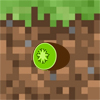
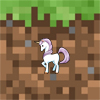
unicorn update

Changed region(s): [[0.3, 0.36, 0.72, 0.75]]

diff --git a/src/nz/ac/aut/ense701/gui/GridSquarePanel.java b/src/nz/ac/aut/ense701/gui/GridSquarePanel.java
@@ -66,7 +66,7 @@ public class GridSquarePanel extends javax.swing.JPanel
             setVisible(true);
             // Set the colour. 
             
-            //Kiwifruit
+            //Unicorn
             if( row == 6 && column == 2) {
                 image = new ImageIcon(getClass().getResource("/nz/ac/aut/ense701/image/brick2.jpg"));
             }
@@ -88,23 +88,33 @@ public class GridSquarePanel extends javax.swing.JPanel
                 lblText.setIcon(image);
             }
             //Food
-            if(game.getOccupantStringRepresentation(row, column) == "apple" ) {
+
+            if( row == 6 && column == 7) {
                 image = new ImageIcon(getClass().getResource("/nz/ac/aut/ense701/image/scruba.jpg"));
+                if(game.getOccupantStringRepresentation(row, column) == "") {
+                    image = new ImageIcon(getClass().getResource("/nz/ac/aut/ense701/image/scrub.jpg"));
+                }
             }
-            //if( row == 6 && column == 7) {
-            //    image = new ImageIcon(getClass().getResource("/nz/ac/aut/ense701/image/scruba.jpg"));
-            //}
             
             if( row == 5 && column == 4) {
                 image = new ImageIcon(getClass().getResource("/nz/ac/aut/ense701/image/grassm.jpg"));
+                if(game.getOccupantStringRepresentation(row, column) == "") {
+                    image = new ImageIcon(getClass().getResource("/nz/ac/aut/ense701/image/grass.jpg"));
+                }
             }
             
             if( row == 2 && column == 4) {
                 image = new ImageIcon(getClass().getResource("/nz/ac/aut/ense701/image/scrubs.jpg"));
+                if(game.getOccupantStringRepresentation(row, column) == "") {
+                    image = new ImageIcon(getClass().getResource("/nz/ac/aut/ense701/image/scrub.jpg"));
+                }
             }
             
             if( row == 8 && column == 2) {
                 image = new ImageIcon(getClass().getResource("/nz/ac/aut/ense701/image/grasso.jpg"));
+                if(game.getOccupantStringRepresentation(row, column) == "") {
+                    image = new ImageIcon(getClass().getResource("/nz/ac/aut/ense701/image/grass.jpg"));
+                }
             }
             //Predator
             if( row == 2 && column == 6) {

diff --git a/src/nz/ac/aut/ense701/gui/KiwiCountUI.java b/src/nz/ac/aut/ense701/gui/KiwiCountUI.java
@@ -313,7 +313,7 @@ public class KiwiCountUI
         gridBagConstraints.anchor = java.awt.GridBagConstraints.WEST;
         pnlPlayerData.add(lblPredators, gridBagConstraints);
 
-        lblKiwisCounted.setText("Kiwis Counted :");
+        lblKiwisCounted.setText("Unicorn Counted :");
         gridBagConstraints = new java.awt.GridBagConstraints();
         gridBagConstraints.gridx = 0;
         gridBagConstraints.gridy = 5;

diff --git a/src/nz/ac/aut/ense701/gameModel/Game.java b/src/nz/ac/aut/ense701/gameModel/Game.java
@@ -865,6 +865,6 @@ public class Game
 
     
 
-
+    
 
 }
